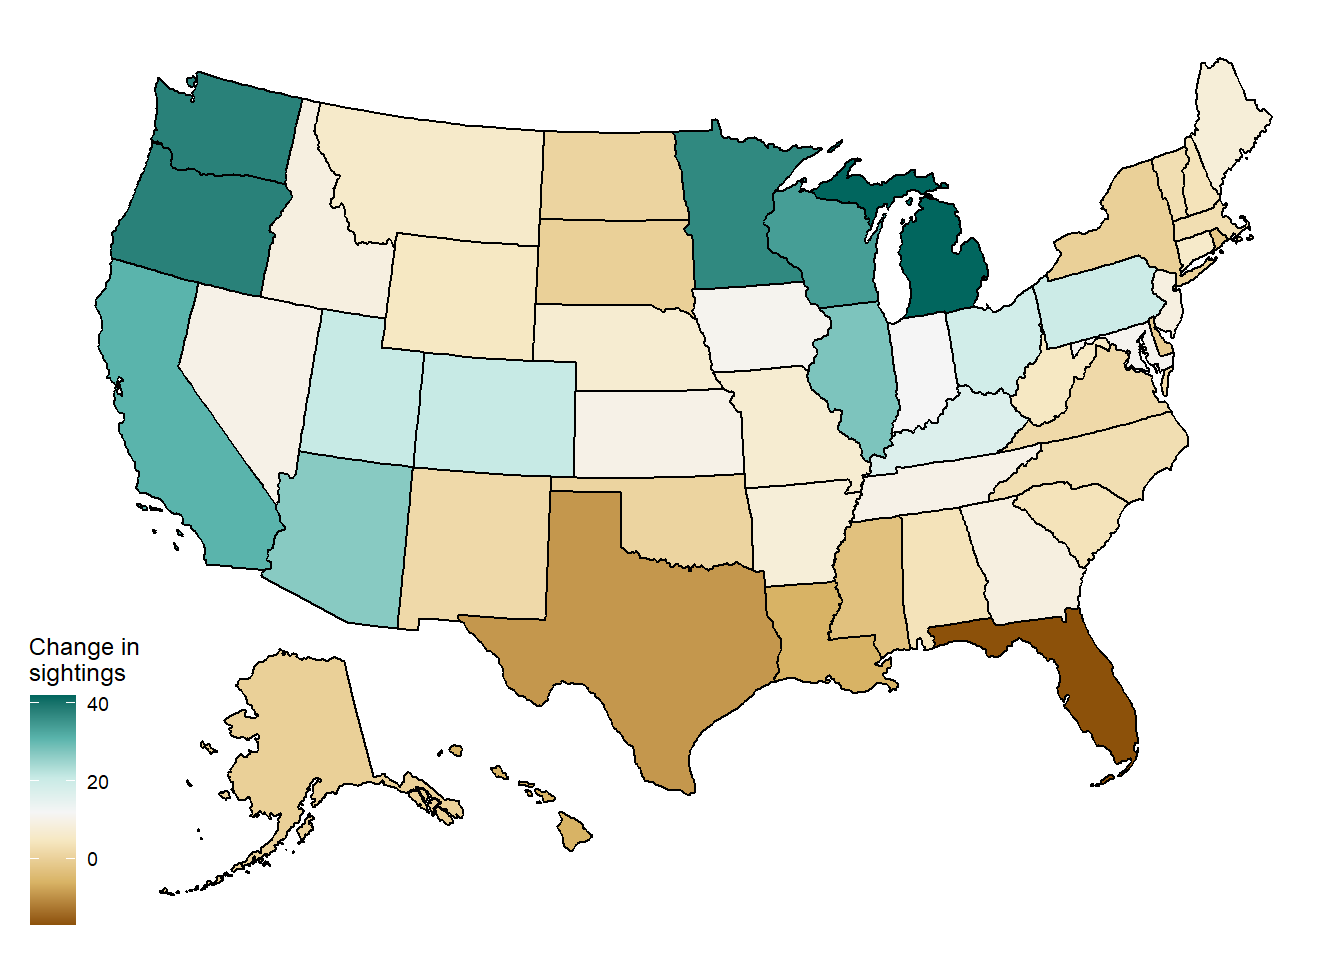
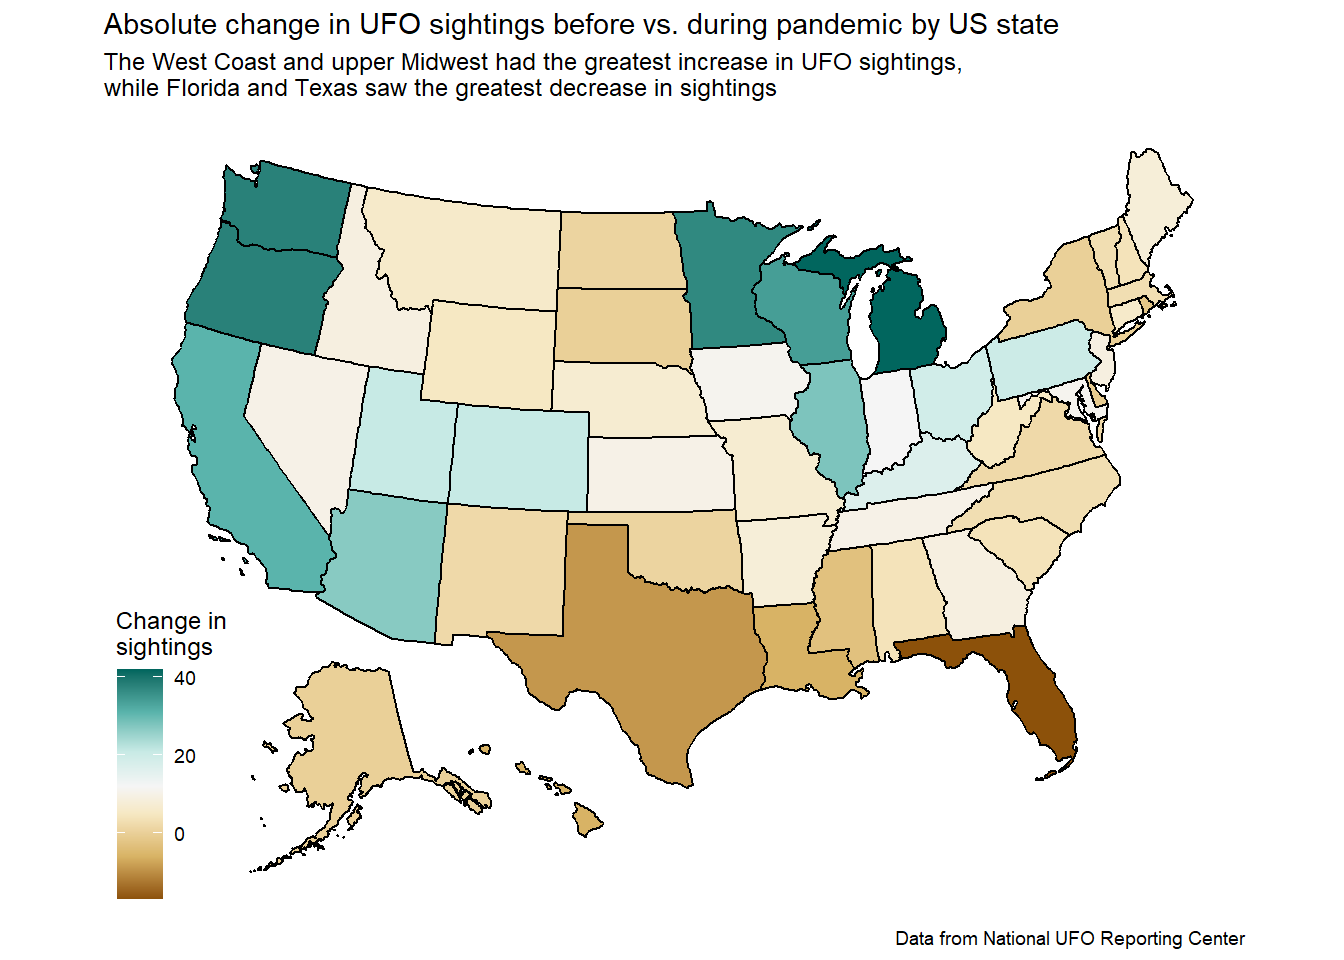
change diff map layout to not be side-by-side

diff --git a/_site/example_analysis.html b/_site/example_analysis.html
@@ -513,34 +513,23 @@ $ elevation_m          &lt;dbl&gt; 160, 192, 199, 235, 17, 382, 89, 11, NA, 1156
 <details>
 <summary>Code</summary>
 <div class="sourceCode cell-code" id="cb14"><pre class="sourceCode r code-with-copy"><code class="sourceCode r"><span id="cb14-1"><a href="#cb14-1" aria-hidden="true" tabindex="-1"></a>transformed_sightings <span class="ot">&lt;-</span> <span class="fu">usmap_transform</span>(pandemic_sightings, <span class="at">input_names =</span> <span class="fu">c</span>(<span class="st">"longitude"</span>, <span class="st">"latitude"</span>)) <span class="sc">%&gt;%</span> </span>
-<span id="cb14-2"><a href="#cb14-2" aria-hidden="true" tabindex="-1"></a>  <span class="fu">mutate</span>(<span class="at">time_period =</span> <span class="fu">fct_recode</span>(time_period, <span class="st">`</span><span class="at">Jan-Feb 2020</span><span class="st">`</span> <span class="ot">=</span> <span class="st">"before"</span>, <span class="st">`</span><span class="at">Mar-Apr 2020</span><span class="st">`</span> <span class="ot">=</span> <span class="st">"after"</span>))</span></code><button title="Copy to Clipboard" class="code-copy-button"><i class="bi"></i></button></pre></div>
-</details>
-<div class="cell-output cell-output-stderr">
-<pre><code>Warning: Evolution status fixed to 2L
-
-Warning: Evolution status fixed to 2L
-
-Warning: Evolution status fixed to 2L
-
-Warning: Evolution status fixed to 2L</code></pre>
-</div>
-<details>
-<summary>Code</summary>
-<div class="sourceCode cell-code" id="cb16"><pre class="sourceCode r code-with-copy"><code class="sourceCode r"><span id="cb16-1"><a href="#cb16-1" aria-hidden="true" tabindex="-1"></a><span class="fu">plot_usmap</span>() <span class="sc">+</span></span>
-<span id="cb16-2"><a href="#cb16-2" aria-hidden="true" tabindex="-1"></a>  <span class="fu">geom_point</span>(transformed_sightings, <span class="at">mapping =</span> <span class="fu">aes</span>(x, y, <span class="at">color =</span> time_period), <span class="at">size =</span> <span class="fl">0.5</span>) <span class="sc">+</span></span>
-<span id="cb16-3"><a href="#cb16-3" aria-hidden="true" tabindex="-1"></a>  <span class="fu">facet_wrap</span>(<span class="sc">~</span>time_period) <span class="sc">+</span></span>
-<span id="cb16-4"><a href="#cb16-4" aria-hidden="true" tabindex="-1"></a>  <span class="fu">theme_minimal</span>() <span class="sc">+</span></span>
-<span id="cb16-5"><a href="#cb16-5" aria-hidden="true" tabindex="-1"></a>  <span class="fu">theme</span>(</span>
-<span id="cb16-6"><a href="#cb16-6" aria-hidden="true" tabindex="-1"></a>    <span class="at">legend.position =</span> <span class="st">"none"</span>,</span>
-<span id="cb16-7"><a href="#cb16-7" aria-hidden="true" tabindex="-1"></a>    <span class="at">axis.line =</span> <span class="fu">element_blank</span>(),</span>
-<span id="cb16-8"><a href="#cb16-8" aria-hidden="true" tabindex="-1"></a>    <span class="at">axis.title =</span> <span class="fu">element_blank</span>(),</span>
-<span id="cb16-9"><a href="#cb16-9" aria-hidden="true" tabindex="-1"></a>    <span class="at">axis.text =</span> <span class="fu">element_blank</span>(),</span>
-<span id="cb16-10"><a href="#cb16-10" aria-hidden="true" tabindex="-1"></a>    <span class="at">panel.grid =</span> <span class="fu">element_blank</span>()) <span class="sc">+</span></span>
-<span id="cb16-11"><a href="#cb16-11" aria-hidden="true" tabindex="-1"></a>  <span class="fu">labs</span>(</span>
-<span id="cb16-12"><a href="#cb16-12" aria-hidden="true" tabindex="-1"></a>    <span class="at">title =</span> <span class="st">"UFO sightings before and during pandemic stay-at-home orders in US"</span>,</span>
-<span id="cb16-13"><a href="#cb16-13" aria-hidden="true" tabindex="-1"></a>    <span class="at">subtitle =</span> <span class="st">"The West Coast and Midwest experienced the greatest increase in UFO sightings"</span>,</span>
-<span id="cb16-14"><a href="#cb16-14" aria-hidden="true" tabindex="-1"></a>    <span class="at">caption =</span> <span class="st">"Data from National UFO Reporting Center"</span></span>
-<span id="cb16-15"><a href="#cb16-15" aria-hidden="true" tabindex="-1"></a>  )</span></code><button title="Copy to Clipboard" class="code-copy-button"><i class="bi"></i></button></pre></div>
+<span id="cb14-2"><a href="#cb14-2" aria-hidden="true" tabindex="-1"></a>  <span class="fu">mutate</span>(<span class="at">time_period =</span> <span class="fu">fct_recode</span>(time_period, <span class="st">`</span><span class="at">Jan-Feb 2020</span><span class="st">`</span> <span class="ot">=</span> <span class="st">"before"</span>, <span class="st">`</span><span class="at">Mar-Apr 2020</span><span class="st">`</span> <span class="ot">=</span> <span class="st">"after"</span>))</span>
+<span id="cb14-3"><a href="#cb14-3" aria-hidden="true" tabindex="-1"></a></span>
+<span id="cb14-4"><a href="#cb14-4" aria-hidden="true" tabindex="-1"></a><span class="fu">plot_usmap</span>() <span class="sc">+</span></span>
+<span id="cb14-5"><a href="#cb14-5" aria-hidden="true" tabindex="-1"></a>  <span class="fu">geom_point</span>(transformed_sightings, <span class="at">mapping =</span> <span class="fu">aes</span>(x, y, <span class="at">color =</span> time_period), <span class="at">size =</span> <span class="fl">0.5</span>) <span class="sc">+</span></span>
+<span id="cb14-6"><a href="#cb14-6" aria-hidden="true" tabindex="-1"></a>  <span class="fu">facet_wrap</span>(<span class="sc">~</span>time_period) <span class="sc">+</span></span>
+<span id="cb14-7"><a href="#cb14-7" aria-hidden="true" tabindex="-1"></a>  <span class="fu">theme_minimal</span>() <span class="sc">+</span></span>
+<span id="cb14-8"><a href="#cb14-8" aria-hidden="true" tabindex="-1"></a>  <span class="fu">theme</span>(</span>
+<span id="cb14-9"><a href="#cb14-9" aria-hidden="true" tabindex="-1"></a>    <span class="at">legend.position =</span> <span class="st">"none"</span>,</span>
+<span id="cb14-10"><a href="#cb14-10" aria-hidden="true" tabindex="-1"></a>    <span class="at">axis.line =</span> <span class="fu">element_blank</span>(),</span>
+<span id="cb14-11"><a href="#cb14-11" aria-hidden="true" tabindex="-1"></a>    <span class="at">axis.title =</span> <span class="fu">element_blank</span>(),</span>
+<span id="cb14-12"><a href="#cb14-12" aria-hidden="true" tabindex="-1"></a>    <span class="at">axis.text =</span> <span class="fu">element_blank</span>(),</span>
+<span id="cb14-13"><a href="#cb14-13" aria-hidden="true" tabindex="-1"></a>    <span class="at">panel.grid =</span> <span class="fu">element_blank</span>()) <span class="sc">+</span></span>
+<span id="cb14-14"><a href="#cb14-14" aria-hidden="true" tabindex="-1"></a>  <span class="fu">labs</span>(</span>
+<span id="cb14-15"><a href="#cb14-15" aria-hidden="true" tabindex="-1"></a>    <span class="at">title =</span> <span class="st">"UFO sightings before and during pandemic stay-at-home orders in US"</span>,</span>
+<span id="cb14-16"><a href="#cb14-16" aria-hidden="true" tabindex="-1"></a>    <span class="at">subtitle =</span> <span class="st">"The West Coast and Midwest experienced the greatest increase in UFO sightings"</span>,</span>
+<span id="cb14-17"><a href="#cb14-17" aria-hidden="true" tabindex="-1"></a>    <span class="at">caption =</span> <span class="st">"Data from National UFO Reporting Center"</span></span>
+<span id="cb14-18"><a href="#cb14-18" aria-hidden="true" tabindex="-1"></a>  )</span></code><button title="Copy to Clipboard" class="code-copy-button"><i class="bi"></i></button></pre></div>
 </details>
 <div class="cell-output-display">
 <p><img src="example_analysis_files/figure-html/unnamed-chunk-9-1.png" class="img-fluid" width="960"></p>
@@ -550,62 +539,51 @@ Warning: Evolution status fixed to 2L</code></pre>
 <div class="cell">
 <details>
 <summary>Code</summary>
-<div class="sourceCode cell-code" id="cb17"><pre class="sourceCode r code-with-copy"><code class="sourceCode r"><span id="cb17-1"><a href="#cb17-1" aria-hidden="true" tabindex="-1"></a>diff_sightings <span class="ot">&lt;-</span> pandemic_sightings <span class="sc">%&gt;%</span> </span>
-<span id="cb17-2"><a href="#cb17-2" aria-hidden="true" tabindex="-1"></a>  <span class="fu">group_by</span>(state, time_period) <span class="sc">%&gt;%</span> </span>
-<span id="cb17-3"><a href="#cb17-3" aria-hidden="true" tabindex="-1"></a>  <span class="fu">count</span>() <span class="sc">%&gt;%</span> </span>
-<span id="cb17-4"><a href="#cb17-4" aria-hidden="true" tabindex="-1"></a>  <span class="fu">pivot_wider</span>(<span class="at">names_from =</span> time_period, <span class="at">values_from =</span> n) <span class="sc">%&gt;%</span> </span>
-<span id="cb17-5"><a href="#cb17-5" aria-hidden="true" tabindex="-1"></a>  <span class="fu">mutate</span>(</span>
-<span id="cb17-6"><a href="#cb17-6" aria-hidden="true" tabindex="-1"></a>    <span class="at">abs_diff =</span> after <span class="sc">-</span> before,</span>
-<span id="cb17-7"><a href="#cb17-7" aria-hidden="true" tabindex="-1"></a>    <span class="at">perc_diff =</span> abs_diff <span class="sc">/</span> before,</span>
-<span id="cb17-8"><a href="#cb17-8" aria-hidden="true" tabindex="-1"></a>    <span class="at">fips =</span> <span class="fu">fips</span>(state)</span>
-<span id="cb17-9"><a href="#cb17-9" aria-hidden="true" tabindex="-1"></a>  ) <span class="sc">%&gt;%</span> </span>
-<span id="cb17-10"><a href="#cb17-10" aria-hidden="true" tabindex="-1"></a>  <span class="fu">select</span>(state, fips, abs_diff, perc_diff)</span></code><button title="Copy to Clipboard" class="code-copy-button"><i class="bi"></i></button></pre></div>
+<div class="sourceCode cell-code" id="cb15"><pre class="sourceCode r code-with-copy"><code class="sourceCode r"><span id="cb15-1"><a href="#cb15-1" aria-hidden="true" tabindex="-1"></a>diff_sightings <span class="ot">&lt;-</span> pandemic_sightings <span class="sc">%&gt;%</span> </span>
+<span id="cb15-2"><a href="#cb15-2" aria-hidden="true" tabindex="-1"></a>  <span class="fu">group_by</span>(state, time_period) <span class="sc">%&gt;%</span> </span>
+<span id="cb15-3"><a href="#cb15-3" aria-hidden="true" tabindex="-1"></a>  <span class="fu">count</span>() <span class="sc">%&gt;%</span> </span>
+<span id="cb15-4"><a href="#cb15-4" aria-hidden="true" tabindex="-1"></a>  <span class="fu">pivot_wider</span>(<span class="at">names_from =</span> time_period, <span class="at">values_from =</span> n) <span class="sc">%&gt;%</span> </span>
+<span id="cb15-5"><a href="#cb15-5" aria-hidden="true" tabindex="-1"></a>  <span class="fu">mutate</span>(</span>
+<span id="cb15-6"><a href="#cb15-6" aria-hidden="true" tabindex="-1"></a>    <span class="at">abs_diff =</span> after <span class="sc">-</span> before,</span>
+<span id="cb15-7"><a href="#cb15-7" aria-hidden="true" tabindex="-1"></a>    <span class="at">perc_diff =</span> abs_diff <span class="sc">/</span> before,</span>
+<span id="cb15-8"><a href="#cb15-8" aria-hidden="true" tabindex="-1"></a>    <span class="at">fips =</span> <span class="fu">fips</span>(state)</span>
+<span id="cb15-9"><a href="#cb15-9" aria-hidden="true" tabindex="-1"></a>  ) <span class="sc">%&gt;%</span> </span>
+<span id="cb15-10"><a href="#cb15-10" aria-hidden="true" tabindex="-1"></a>  <span class="fu">select</span>(state, fips, abs_diff, perc_diff)</span></code><button title="Copy to Clipboard" class="code-copy-button"><i class="bi"></i></button></pre></div>
 </details>
 </div>
-<div>
+<div class="cell">
 <details>
 <summary>Code</summary>
-<div class="sourceCode cell-code" id="cb18"><pre class="sourceCode r code-with-copy"><code class="sourceCode r"><span id="cb18-1"><a href="#cb18-1" aria-hidden="true" tabindex="-1"></a><span class="co"># Using Jenks natural breaks to change color scale</span></span>
-<span id="cb18-2"><a href="#cb18-2" aria-hidden="true" tabindex="-1"></a><span class="co"># I feel this makes the scale more readable, especially since </span></span>
-<span id="cb18-3"><a href="#cb18-3" aria-hidden="true" tabindex="-1"></a>abs_scale <span class="ot">&lt;-</span> <span class="fu">getJenksBreaks</span>(diff_sightings<span class="sc">$</span>abs_diff, <span class="dv">7</span>) <span class="sc">%&gt;%</span> <span class="fu">rescale</span>(<span class="at">to =</span> <span class="fu">c</span>(<span class="dv">0</span>,<span class="dv">1</span>))</span>
-<span id="cb18-4"><a href="#cb18-4" aria-hidden="true" tabindex="-1"></a>perc_scale <span class="ot">&lt;-</span> <span class="fu">getJenksBreaks</span>(diff_sightings<span class="sc">$</span>perc_diff, <span class="dv">7</span>) <span class="sc">%&gt;%</span> <span class="fu">rescale</span>(<span class="at">to =</span> <span class="fu">c</span>(<span class="dv">0</span>,<span class="dv">1</span>))</span>
-<span id="cb18-5"><a href="#cb18-5" aria-hidden="true" tabindex="-1"></a></span>
-<span id="cb18-6"><a href="#cb18-6" aria-hidden="true" tabindex="-1"></a><span class="fu">plot_usmap</span>(<span class="at">data =</span> diff_sightings, <span class="at">values =</span> <span class="st">"abs_diff"</span>) <span class="sc">+</span></span>
-<span id="cb18-7"><a href="#cb18-7" aria-hidden="true" tabindex="-1"></a>  <span class="fu">scale_fill_distiller</span>(<span class="at">palette =</span> <span class="st">"BrBG"</span>, <span class="at">direction =</span> <span class="dv">1</span>, <span class="at">values =</span> abs_scale) <span class="sc">+</span></span>
-<span id="cb18-8"><a href="#cb18-8" aria-hidden="true" tabindex="-1"></a>  <span class="fu">labs</span>(</span>
-<span id="cb18-9"><a href="#cb18-9" aria-hidden="true" tabindex="-1"></a>    <span class="at">fill =</span> <span class="st">"Change in </span><span class="sc">\n</span><span class="st">sightings"</span></span>
-<span id="cb18-10"><a href="#cb18-10" aria-hidden="true" tabindex="-1"></a>  )</span>
-<span id="cb18-11"><a href="#cb18-11" aria-hidden="true" tabindex="-1"></a></span>
-<span id="cb18-12"><a href="#cb18-12" aria-hidden="true" tabindex="-1"></a><span class="fu">plot_usmap</span>(<span class="at">data =</span> diff_sightings, <span class="at">values =</span> <span class="st">"perc_diff"</span>) <span class="sc">+</span></span>
-<span id="cb18-13"><a href="#cb18-13" aria-hidden="true" tabindex="-1"></a>  <span class="fu">scale_fill_distiller</span>(<span class="at">palette =</span> <span class="st">"PiYG"</span>, <span class="at">direction =</span> <span class="dv">1</span>, <span class="at">values =</span> perc_scale, <span class="at">labels =</span> scales<span class="sc">::</span><span class="fu">label_percent</span>()) <span class="sc">+</span></span>
-<span id="cb18-14"><a href="#cb18-14" aria-hidden="true" tabindex="-1"></a>  <span class="fu">labs</span>(</span>
-<span id="cb18-15"><a href="#cb18-15" aria-hidden="true" tabindex="-1"></a>    <span class="at">fill =</span> <span class="st">"% change </span><span class="sc">\n</span><span class="st">in sightings"</span></span>
-<span id="cb18-16"><a href="#cb18-16" aria-hidden="true" tabindex="-1"></a>  )</span></code><button title="Copy to Clipboard" class="code-copy-button"><i class="bi"></i></button></pre></div>
+<div class="sourceCode cell-code" id="cb16"><pre class="sourceCode r code-with-copy"><code class="sourceCode r"><span id="cb16-1"><a href="#cb16-1" aria-hidden="true" tabindex="-1"></a><span class="co"># Using Jenks natural breaks to change color scale</span></span>
+<span id="cb16-2"><a href="#cb16-2" aria-hidden="true" tabindex="-1"></a><span class="co"># I feel this makes the scale more readable, especially since </span></span>
+<span id="cb16-3"><a href="#cb16-3" aria-hidden="true" tabindex="-1"></a>abs_scale <span class="ot">&lt;-</span> <span class="fu">getJenksBreaks</span>(diff_sightings<span class="sc">$</span>abs_diff, <span class="dv">7</span>) <span class="sc">%&gt;%</span> <span class="fu">rescale</span>(<span class="at">to =</span> <span class="fu">c</span>(<span class="dv">0</span>,<span class="dv">1</span>))</span>
+<span id="cb16-4"><a href="#cb16-4" aria-hidden="true" tabindex="-1"></a>perc_scale <span class="ot">&lt;-</span> <span class="fu">getJenksBreaks</span>(diff_sightings<span class="sc">$</span>perc_diff, <span class="dv">7</span>) <span class="sc">%&gt;%</span> <span class="fu">rescale</span>(<span class="at">to =</span> <span class="fu">c</span>(<span class="dv">0</span>,<span class="dv">1</span>))</span>
+<span id="cb16-5"><a href="#cb16-5" aria-hidden="true" tabindex="-1"></a></span>
+<span id="cb16-6"><a href="#cb16-6" aria-hidden="true" tabindex="-1"></a><span class="fu">plot_usmap</span>(<span class="at">data =</span> diff_sightings, <span class="at">values =</span> <span class="st">"abs_diff"</span>) <span class="sc">+</span></span>
+<span id="cb16-7"><a href="#cb16-7" aria-hidden="true" tabindex="-1"></a>  <span class="fu">scale_fill_distiller</span>(<span class="at">palette =</span> <span class="st">"BrBG"</span>, <span class="at">direction =</span> <span class="dv">1</span>, <span class="at">values =</span> abs_scale) <span class="sc">+</span></span>
+<span id="cb16-8"><a href="#cb16-8" aria-hidden="true" tabindex="-1"></a>  <span class="fu">labs</span>(</span>
+<span id="cb16-9"><a href="#cb16-9" aria-hidden="true" tabindex="-1"></a>    <span class="at">title =</span> <span class="st">"Absolute change in UFO sightings before vs. during pandemic by US state"</span>,</span>
+<span id="cb16-10"><a href="#cb16-10" aria-hidden="true" tabindex="-1"></a>    <span class="at">subtitle =</span> <span class="st">"The West Coast and upper Midwest had the greatest increase in UFO sightings,</span><span class="sc">\n</span><span class="st">while Florida and Texas saw the greatest decrease in sightings"</span>,</span>
+<span id="cb16-11"><a href="#cb16-11" aria-hidden="true" tabindex="-1"></a>    <span class="at">fill =</span> <span class="st">"Change in </span><span class="sc">\n</span><span class="st">sightings"</span>,</span>
+<span id="cb16-12"><a href="#cb16-12" aria-hidden="true" tabindex="-1"></a>    <span class="at">caption =</span> <span class="st">"Data from National UFO Reporting Center"</span></span>
+<span id="cb16-13"><a href="#cb16-13" aria-hidden="true" tabindex="-1"></a>  )</span></code><button title="Copy to Clipboard" class="code-copy-button"><i class="bi"></i></button></pre></div>
 </details>
-<div class="cell quarto-layout-panel">
-<div class="quarto-layout-row quarto-layout-valign-top">
-<div class="cell-output-display quarto-layout-cell" style="flex-basis: 50.0%;justify-content: center;">
-<div class="quarto-figure quarto-figure-center">
-<figure class="figure">
-<p><img src="example_analysis_files/figure-html/unnamed-chunk-11-1.png" class="img-fluid figure-img" width="672"></p>
-<figcaption class="figure-caption">Absolute change</figcaption>
-</figure>
+<div class="cell-output-display">
+<p><img src="example_analysis_files/figure-html/unnamed-chunk-11-1.png" class="img-fluid" width="672"></p>
 </div>
-</div>
-<div class="cell-output-display quarto-layout-cell" style="flex-basis: 50.0%;justify-content: center;">
-<div class="quarto-figure quarto-figure-center">
-<figure class="figure">
-<p><img src="example_analysis_files/figure-html/unnamed-chunk-11-2.png" class="img-fluid figure-img" width="672"></p>
-<figcaption class="figure-caption">Percent change</figcaption>
-</figure>
-</div>
-</div>
-</div>
-<div class="quarto-layout-row quarto-layout-valign-top">
-<div class="quarto-layout-cell" style="flex-basis: 50.0%;justify-content: center;">
-<p>Change in UFO sightings before vs.&nbsp;during pandemic by US state</p>
-</div>
-</div>
+<details>
+<summary>Code</summary>
+<div class="sourceCode cell-code" id="cb17"><pre class="sourceCode r code-with-copy"><code class="sourceCode r"><span id="cb17-1"><a href="#cb17-1" aria-hidden="true" tabindex="-1"></a><span class="fu">plot_usmap</span>(<span class="at">data =</span> diff_sightings, <span class="at">values =</span> <span class="st">"perc_diff"</span>) <span class="sc">+</span></span>
+<span id="cb17-2"><a href="#cb17-2" aria-hidden="true" tabindex="-1"></a>  <span class="fu">scale_fill_distiller</span>(<span class="at">palette =</span> <span class="st">"PiYG"</span>, <span class="at">direction =</span> <span class="dv">1</span>, <span class="at">values =</span> perc_scale, <span class="at">labels =</span> scales<span class="sc">::</span><span class="fu">label_percent</span>()) <span class="sc">+</span></span>
+<span id="cb17-3"><a href="#cb17-3" aria-hidden="true" tabindex="-1"></a>  <span class="fu">labs</span>(</span>
+<span id="cb17-4"><a href="#cb17-4" aria-hidden="true" tabindex="-1"></a>    <span class="at">title =</span> <span class="st">"Percent change in UFO sightings before vs. during pandemic by US state"</span>,</span>
+<span id="cb17-5"><a href="#cb17-5" aria-hidden="true" tabindex="-1"></a>    <span class="at">subtitle =</span> <span class="st">"The upper Midwest had the greatest % increase in UFO sightings,</span><span class="sc">\n</span><span class="st">while Mississippi and Louisiana saw the greatest % decrease in sightings"</span>,</span>
+<span id="cb17-6"><a href="#cb17-6" aria-hidden="true" tabindex="-1"></a>    <span class="at">fill =</span> <span class="st">"% change </span><span class="sc">\n</span><span class="st">in sightings"</span>,</span>
+<span id="cb17-7"><a href="#cb17-7" aria-hidden="true" tabindex="-1"></a>    <span class="at">caption =</span> <span class="st">"Data from National UFO Reporting Center"</span></span>
+<span id="cb17-8"><a href="#cb17-8" aria-hidden="true" tabindex="-1"></a>  )</span></code><button title="Copy to Clipboard" class="code-copy-button"><i class="bi"></i></button></pre></div>
+</details>
+<div class="cell-output-display">
+<p><img src="example_analysis_files/figure-html/unnamed-chunk-11-2.png" class="img-fluid" width="672"></p>
 </div>
 </div>
 </section>
